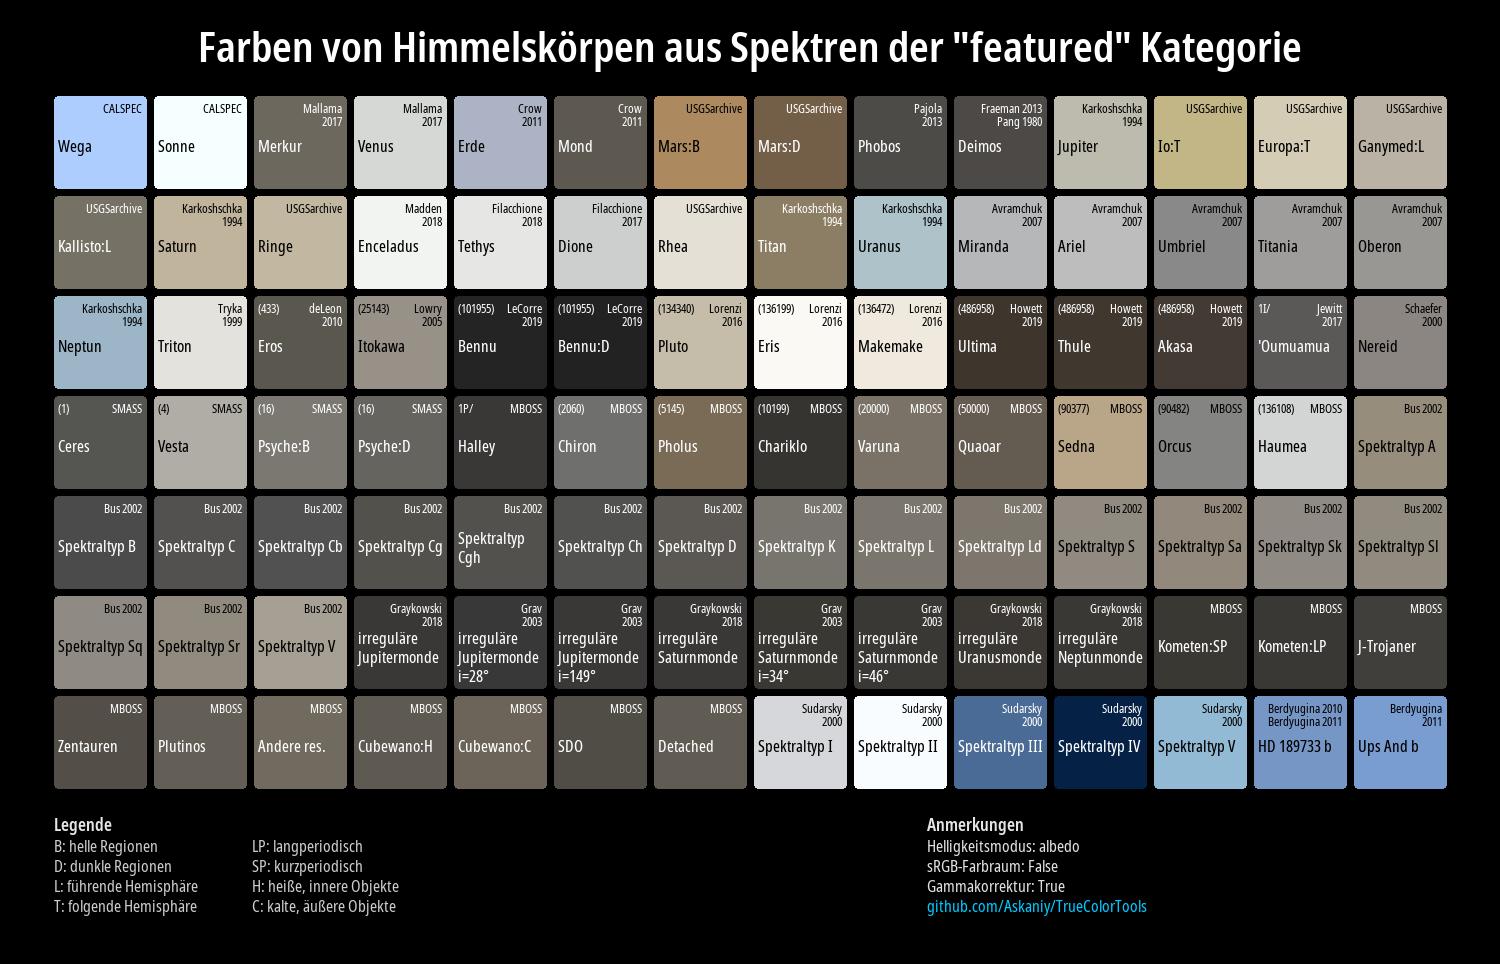
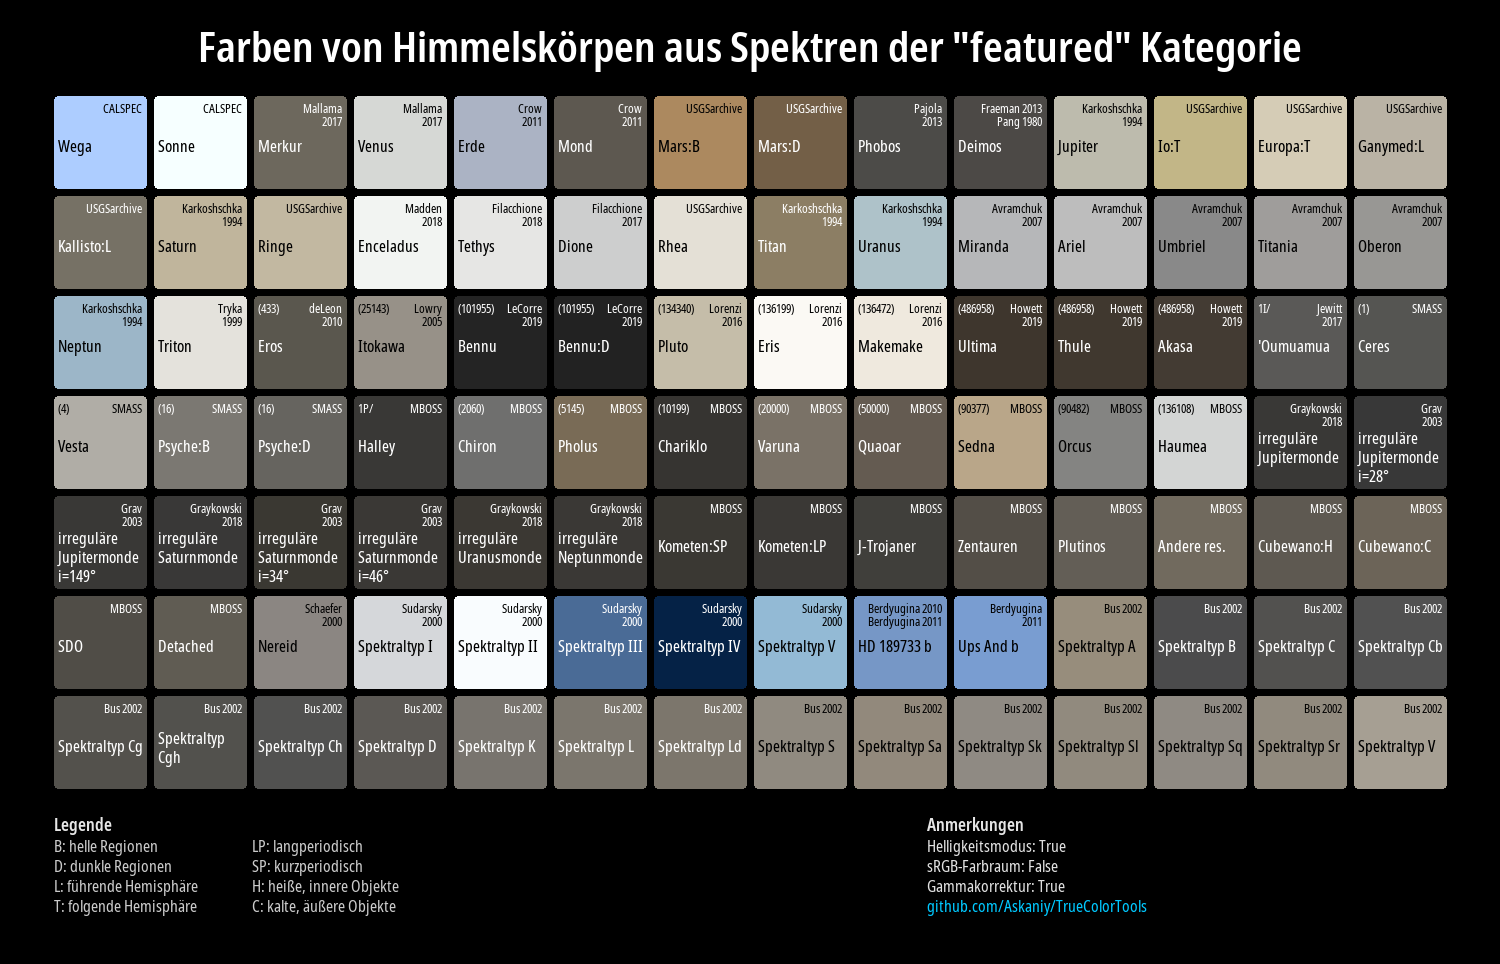
Color tables update, bugfix

Changed region(s): [[0.0307, 0.2801, 0.9813, 0.8402], [0.6747, 0.8714, 0.736, 0.9025]]

diff --git a/src/core.py b/src/core.py
@@ -253,4 +253,10 @@ class Color:
 
     def to_html(self):
         """ Converts fractional rgb values to HTML-style hex string """
-        return '#{:02x}{:02x}{:02x}'.format(*self.to_bit(8).round().astype(int))
+        html = '#{:02x}{:02x}{:02x}'.format(*self.to_bit(8).round().astype(int))
+        if len(html) != 7:
+            print(f'# Note for the Color object "{self.name}"')
+            print(f'- HTML-style color code feels wrong: {html}')
+            html = '#000000'
+            print(f'- It has been replaced with {html}.')
+        return html

diff --git a/src/table_generator.py b/src/table_generator.py
@@ -95,7 +95,7 @@ def generate_table(objectsDB: dict, tag: str, albedoFlag: bool, srgb: bool, gamm
         # Color calculation
         spec = core.Spectrum(name, calc.rgb_nm, curve)
         if srgb:
-            color = core.Color.from_spectrum(spec, albedo)
+            color = core.Color.from_spectrum(spec, albedo=albedo)
         else:
             color = core.Color.from_spectrum_legacy(spec, albedo)
         if gamma:
